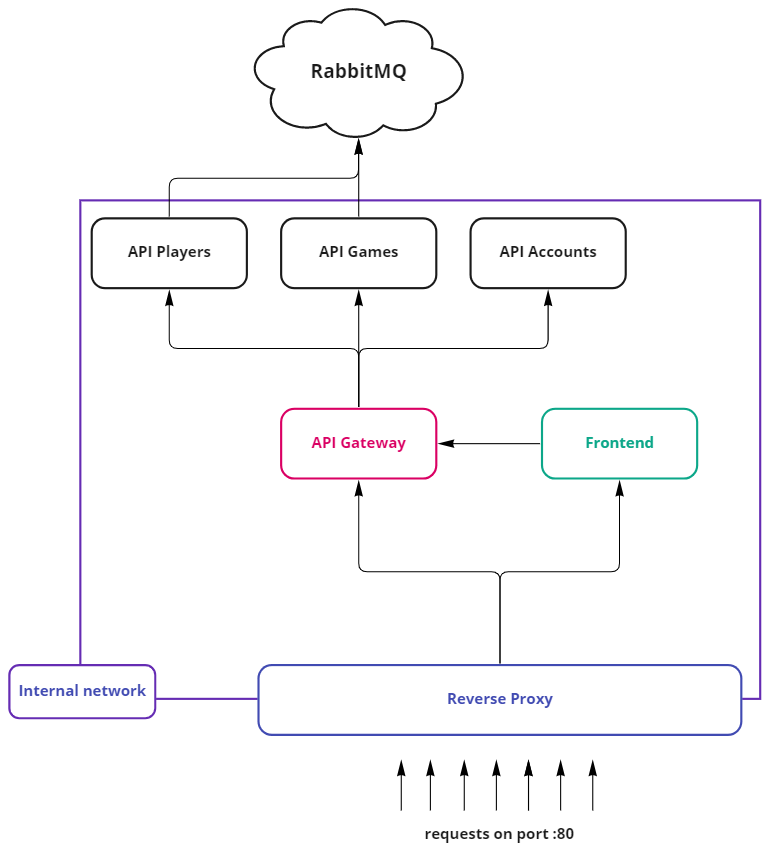
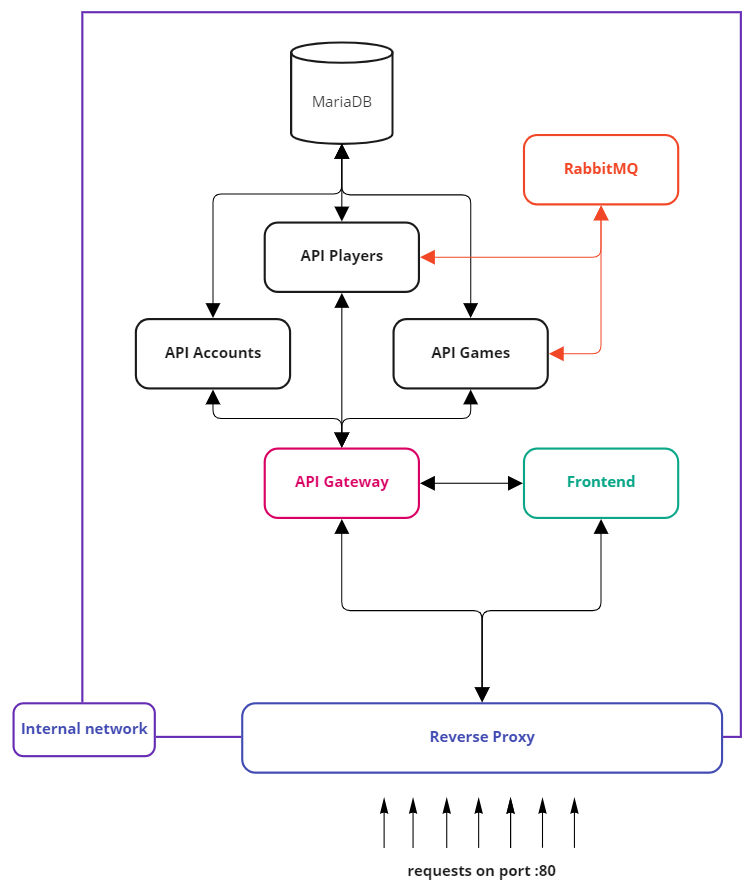
Containerization of RabbitMQ and Database (MariaDB).

diff --git a/api_games/src/player/event/player_event.py b/api_games/src/player/event/player_event.py
@@ -1,3 +1,5 @@
+import time
+
 import pika
 import json
 import threading
@@ -11,12 +13,16 @@ class PlayerEventsHandler(threading.Thread):
     as other thread for handling events in background.
     """
 
-    def __init__(self):
+    def __init__(self, url: str = 'amqp://guest:guest@rabbitmq/%2f', queue_name: str = 'players_events_queue', no_connections_tries: int = 5):
         super(PlayerEventsHandler, self).__init__()
-        self._is_interrupted = False
 
-        self._service_url = 'amqps://gtqxiusc:EWfENRrRkc8Dko7dWDQPyTRX4jGy0k6z@sparrow.rmq.cloudamqp.com/gtqxiusc'
-        self._queue_name = 'players_events_queue'
+        self._is_interrupted = False
+        # self._service_url = 'amqps://gtqxiusc:EWfENRrRkc8Dko7dWDQPyTRX4jGy0k6z@sparrow.rmq.cloudamqp.com/gtqxiusc'
+        self._service_url = url
+        self._queue_name = queue_name
+        self._no_connections_tries = no_connections_tries
+        self._validate_state()
+
         self._connection = self._create_queue_connection()
         self._events_parser = PlayerEventsParser()
 
@@ -29,11 +35,14 @@ class PlayerEventsHandler(threading.Thread):
         ConnectionError
             When queue service in unreachable.
         """
-        try:
-            params = pika.URLParameters(self._service_url)
-            return pika.BlockingConnection(params)
-        except pika.exceptions.AMQPConnectionError as exc:
-            raise ConnectionError("Failed to connect to RabbitMQ service")
+        for _ in range(self._no_connections_tries):
+            try:
+                params = pika.URLParameters(self._service_url)
+                return pika.BlockingConnection(params)
+            except pika.exceptions.AMQPConnectionError as exc:
+                print("Could not connect to rabbitmq service. Try again after 5 seconds.")
+            time.sleep(5)
+        raise ConnectionError("Failed to connect to RabbitMQ service")
 
     def stop(self):
         self._is_interrupted = True
@@ -73,6 +82,16 @@ class PlayerEventsHandler(threading.Thread):
 
         message = json.loads(message.decode('utf-8'))
         self._events_parser.parse(message)
+
+    def _validate_state(self):
+        if not isinstance(self._service_url, str):
+            raise TypeError(f'Invalid type of "url" parameter. Has to be str not {type(self._service_url)}')
+
+        if not isinstance(self._queue_name, str):
+            raise TypeError(f'Invalid type of "queue_name" parameter. Has to be str, not {type(self._queue_name)}')
+
+        if not isinstance(self._no_connections_tries, int):
+            raise TypeError(f'Invalid type of "no_connections_tries" parameter. Has to be int, not {(type(self._no_connections_tries))}')
 
     def __del__(self):
         self.stop()

diff --git a/api_games/production.config.py b/api_games/production.config.py
@@ -5,11 +5,16 @@ DEBUG = False
 import os
 BASE_DIR = os.path.abspath(os.path.dirname(__file__))
 
-# Define the database - we are working with
-# SQLite for this example
+# Define the MariaDB database
+DATABASE_USER_LOGIN = 'root'
+DATABASE_USER_PASSWORD = 'root'
+DATABASE_ADDRESS = 'mariadb'
+DATABASE_TABLE = 'games_db'
+DATABASE_DRIVER = 'mysql'
+SQLALCHEMY_DATABASE_URI = f'{DATABASE_DRIVER}://{DATABASE_USER_LOGIN}:{DATABASE_USER_PASSWORD}@{DATABASE_ADDRESS}:3306/{DATABASE_TABLE}'
 SQLALCHEMY_TRACK_MODIFICATIONS = False
-SQLALCHEMY_DATABASE_URI = 'sqlite:///' + os.path.join(BASE_DIR, 'instance', 'games.db') # 'sqlite:///:memory:'
 DATABASE_CONNECT_OPTIONS = {}
+# SQLALCHEMY_DATABASE_URI = 'sqlite:///:memory:'
 
 # Application threads. A common general assumption is
 # using 2 per available processor cores - to handle
@@ -40,3 +45,9 @@ API_DEFINITION_FILE_URL = '/api/games/static/swagger/swagger.json'
 SWAGGER_CONFIG = {
     'app name': 'Games API Swagger'
 }
+
+# RabbitMQ connection parameters
+RABBITMQ_USER_LOGIN = 'guest'
+RABBITMQ_USER_PASSWORD = 'guest'
+RABBITMQ_ADDRESS = 'rabbitmq'
+RABBITMQ_URL = f'amqp://{RABBITMQ_USER_LOGIN}:{RABBITMQ_USER_PASSWORD}@{RABBITMQ_ADDRESS}/%2f'

diff --git a/api_accounts/production.config.py b/api_accounts/production.config.py
@@ -7,9 +7,15 @@ BASE_DIR = os.path.abspath(os.path.dirname(__file__))
 
 # Define the database - we are working with
 # SQLite for this example
+DATABASE_USER_LOGIN = 'root'
+DATABASE_USER_PASSWORD = 'root'
+DATABASE_ADDRESS = 'mariadb'
+DATABASE_TABLE = 'accounts_db'
+DATABASE_DRIVER = 'mysql'
+SQLALCHEMY_DATABASE_URI = f'{DATABASE_DRIVER}://{DATABASE_USER_LOGIN}:{DATABASE_USER_PASSWORD}@{DATABASE_ADDRESS}:3306/{DATABASE_TABLE}'
 SQLALCHEMY_TRACK_MODIFICATIONS = False
-SQLALCHEMY_DATABASE_URI = 'sqlite:///:memory:' # 'sqlite:///' + os.path.join(BASE_DIR, 'instance', 'accounts.db')
 DATABASE_CONNECT_OPTIONS = {}
+# SQLALCHEMY_DATABASE_URI = 'sqlite:///:memory:'
 
 # Application threads. A common general assumption is
 # using 2 per available processor cores - to handle

diff --git a/api_players/production.config.py b/api_players/production.config.py
@@ -7,9 +7,15 @@ BASE_DIR = os.path.abspath(os.path.dirname(__file__))
 
 # Define the database - we are working with
 # SQLite for this example
+DATABASE_USER_LOGIN = 'root'
+DATABASE_USER_PASSWORD = 'root'
+DATABASE_ADDRESS = 'mariadb'
+DATABASE_TABLE = 'players_db'
+DATABASE_DRIVER = 'mysql'
+SQLALCHEMY_DATABASE_URI = f'{DATABASE_DRIVER}://{DATABASE_USER_LOGIN}:{DATABASE_USER_PASSWORD}@{DATABASE_ADDRESS}:3306/{DATABASE_TABLE}'
 SQLALCHEMY_TRACK_MODIFICATIONS = False
-SQLALCHEMY_DATABASE_URI = 'sqlite:///' + os.path.join(BASE_DIR, 'instance', 'players.db') # 'sqlite:///:memory:'
 DATABASE_CONNECT_OPTIONS = {}
+# SQLALCHEMY_DATABASE_URI = 'sqlite:///:memory:'
 
 # Application threads. A common general assumption is
 # using 2 per available processor cores - to handle

diff --git a/api_players/src/player/event/player_event.py b/api_players/src/player/event/player_event.py
@@ -45,7 +45,8 @@ class PlayerEventQueueManager(object):
         queue messages management. """
 
     def __init__(self):
-        self._service_url = 'amqps://gtqxiusc:EWfENRrRkc8Dko7dWDQPyTRX4jGy0k6z@sparrow.rmq.cloudamqp.com/gtqxiusc'
+        # self._service_url = 'amqps://gtqxiusc:EWfENRrRkc8Dko7dWDQPyTRX4jGy0k6z@sparrow.rmq.cloudamqp.com/gtqxiusc'
+        self._service_url = 'amqp://guest:guest@rabbitmq/%2f'
         self._queue_name = 'players_events_queue'
         self._connection = self._create_queue_connection()
 

diff --git a/api_players/development.config.py b/api_players/development.config.py
@@ -8,7 +8,8 @@ BASE_DIR = os.path.abspath(os.path.dirname(__file__))
 # Define the database - we are working with
 # SQLite for this example
 SQLALCHEMY_TRACK_MODIFICATIONS = False
-SQLALCHEMY_DATABASE_URI = 'sqlite:///' + os.path.join(BASE_DIR, 'instance', 'players.db') # 'sqlite:///:memory:'
+SQLALCHEMY_DATABASE_URI = 'sqlite:///:memory:'
+# SQLALCHEMY_DATABASE_URI = 'mysql://root:root@localhost:3306/players_db'
 DATABASE_CONNECT_OPTIONS = {}
 
 # Application threads. A common general assumption is

diff --git a/api_games/development.config.py b/api_games/development.config.py
@@ -8,7 +8,8 @@ BASE_DIR = os.path.abspath(os.path.dirname(__file__))
 # Define the database - we are working with
 # SQLite for this example
 SQLALCHEMY_TRACK_MODIFICATIONS = False
-SQLALCHEMY_DATABASE_URI = 'sqlite:///' + os.path.join(BASE_DIR, 'instance', 'games.db') # 'sqlite:///:memory:'
+SQLALCHEMY_DATABASE_URI = 'sqlite:///:memory:'
+# SQLALCHEMY_DATABASE_URI = 'mysql://root:root@localhost:3306/games_db'
 DATABASE_CONNECT_OPTIONS = {}
 
 # Application threads. A common general assumption is

diff --git a/api_accounts/src/__init__.py b/api_accounts/src/__init__.py
@@ -1,3 +1,5 @@
+import time
+
 from flask import Flask
 from flask_sqlalchemy import SQLAlchemy
 from flask_restful import Api
@@ -13,6 +15,7 @@ db = None
 
 def create_app(test_config=None):
     # create and configure the app
+    time.sleep(10)
     global app
     app = Flask(__name__,
                 instance_path=os.path.abspath(os.path.dirname(__file__)),

diff --git a/api_games/src/__init__.py b/api_games/src/__init__.py
@@ -1,3 +1,5 @@
+import time
+
 from flask import Flask
 from flask_sqlalchemy import SQLAlchemy
 from flask_restful import Api
@@ -13,6 +15,7 @@ db = None
 
 def create_app(test_config=None):
     # create and configure the app
+    time.sleep(10)
     global app
     app = Flask(__name__,
                 instance_path=os.path.abspath(os.path.dirname(__file__)),

diff --git a/api_players/src/__init__.py b/api_players/src/__init__.py
@@ -1,3 +1,5 @@
+import time
+
 from flask import Flask
 from flask_sqlalchemy import SQLAlchemy
 from flask_restful import Api
@@ -13,6 +15,7 @@ db = None
 
 def create_app(test_config=None):
     # create and configure the app
+    time.sleep(10)
     global app
     app = Flask(__name__,
                 instance_path=os.path.abspath(os.path.dirname(__file__)),
